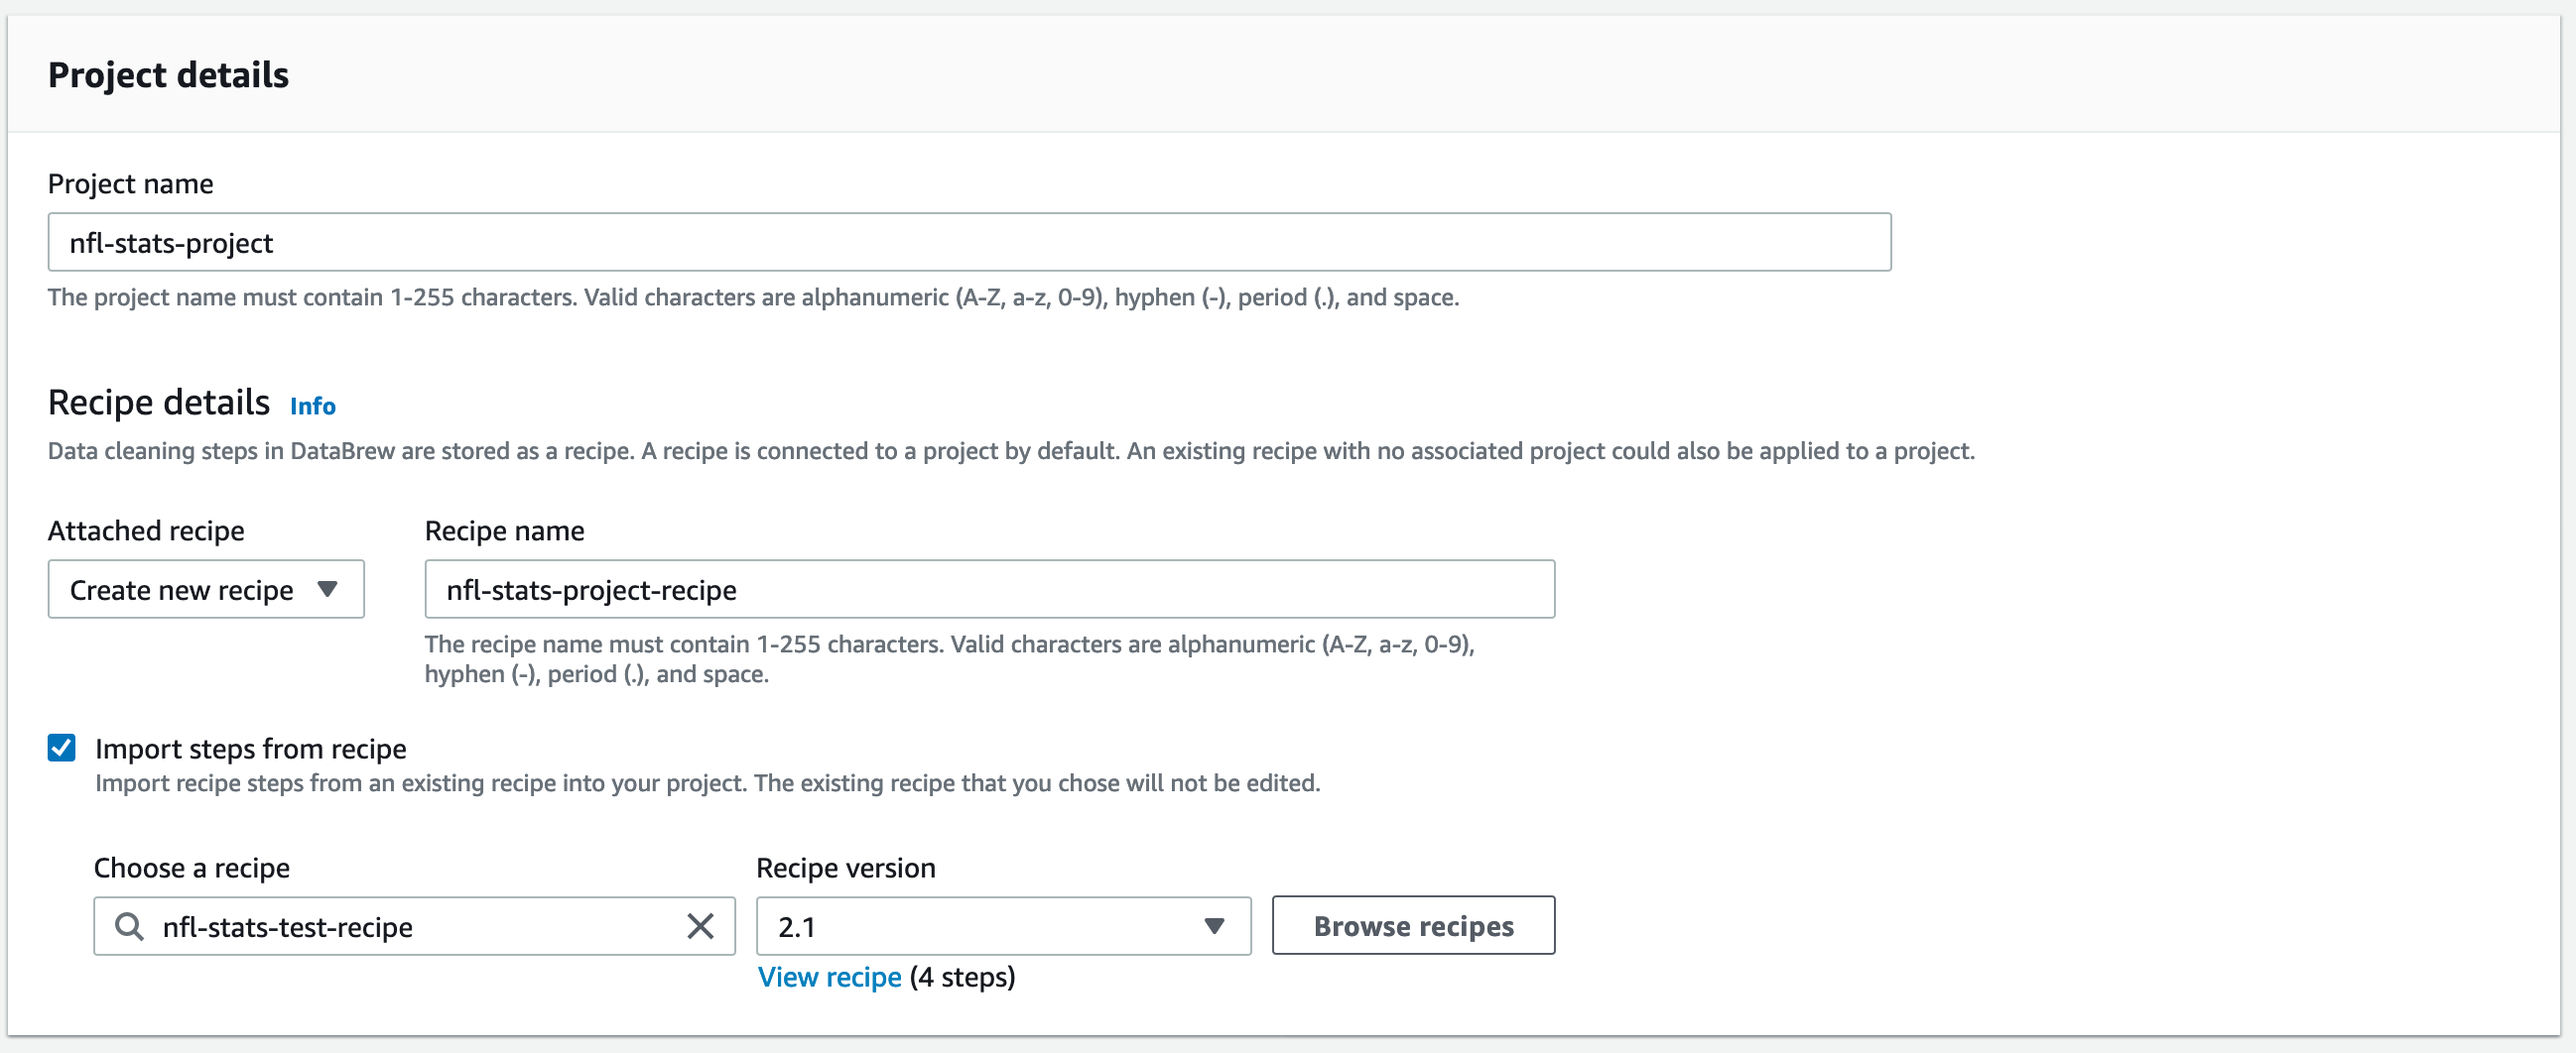
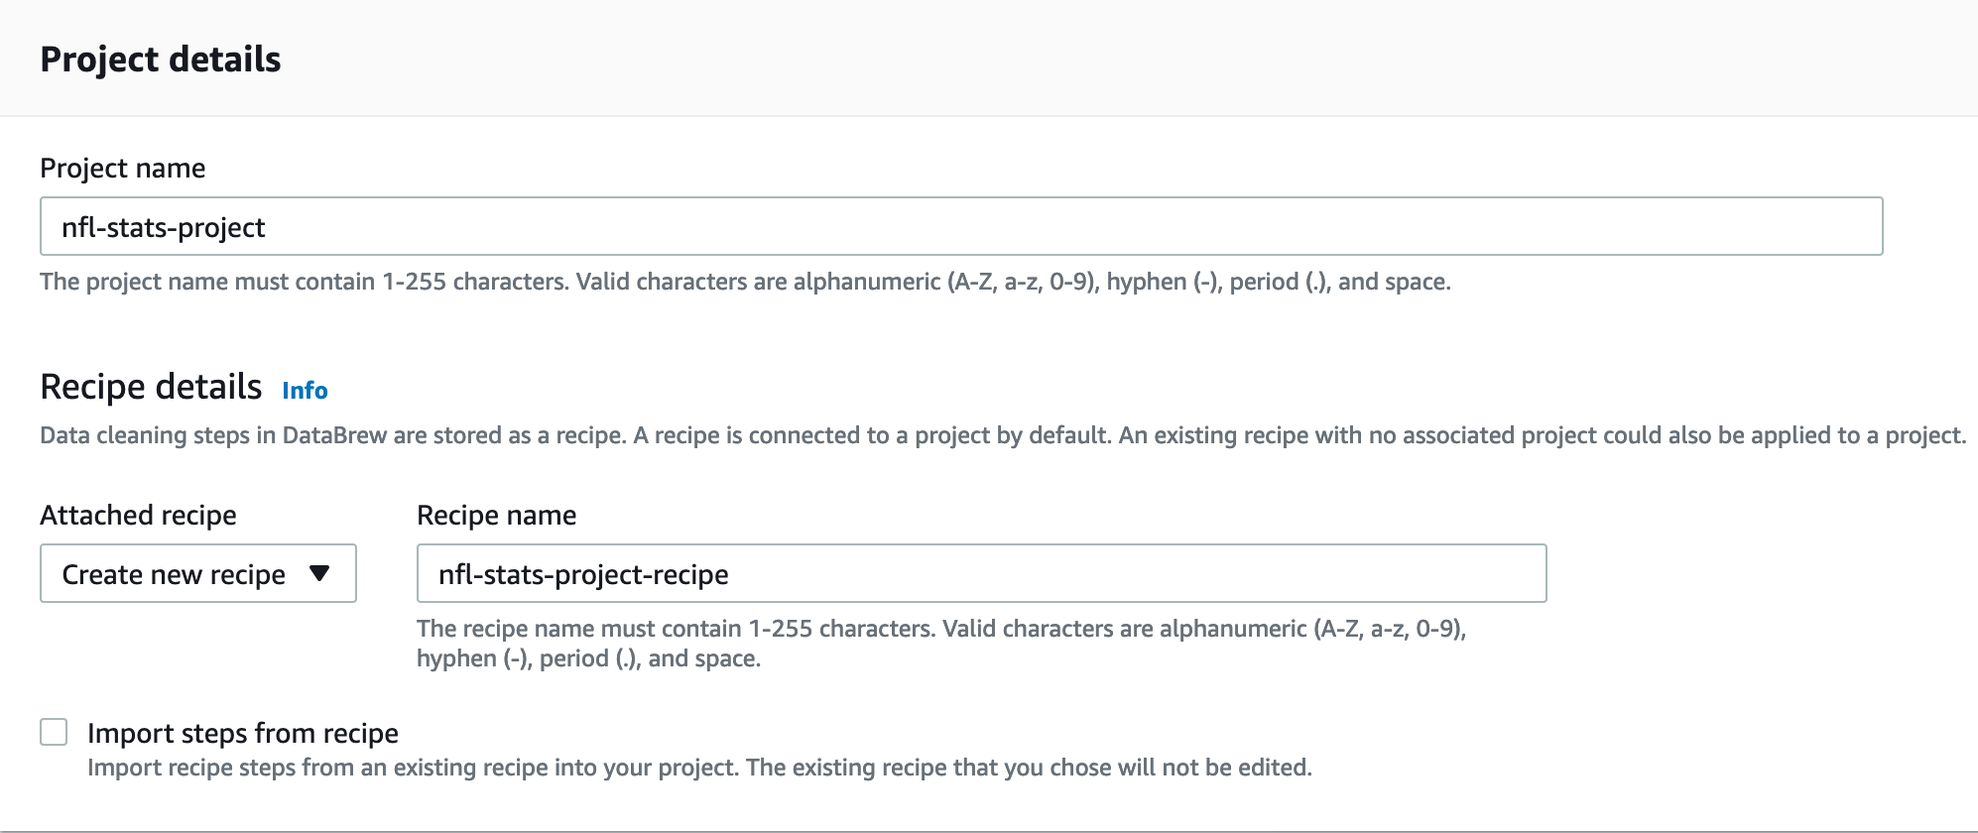
finish get data and start manage data sections

diff --git a/workshop/content/GetData/ExportDataBrew.en.md b/workshop/content/GetData/ExportDataBrew.en.md
@@ -46,29 +46,49 @@ In this section you will create a new project in DataBrew and be applying a reci
 
 ![CreateProject](/images/databrew-create-project.png)
 
-2. Now you will need to provide a few details to the project such as name and IAM Role to use to allow DataBrew access to resources like S3 buckets. In the **Name** field use `nfl-stats-project`, check the **Import steps from recipe** and in the drop-down **Choose recipe** select the `nfl-stats-recipe`, this recipe was generated in the CDK script in [Setup][setup]. For the **Recipe version** drop-down select the latest version available.
-
-**Replace this image**
+2. Now you will need to provide a few details to the project such as name and IAM Role to use to allow DataBrew access to resources like S3 buckets. In the **Name** field use `nfl-stats-project`, Leave the default **Create new recipe** in the recipe dropdown as we will be building a new recipe later in this section.
 
 ![ProjectDetails](/images/databrew-project-details.png)
 
-3. To finish creating the project you need to select the appropriate IAM Role for DataBrew to use. Find the IAM Role with the name that matches the CDK script output `DataBrewRole` and select it. Finally, click the **Create project** button.
+1. To finish creating the project you need to select the appropriate IAM Role for DataBrew to use. Find the IAM Role with the name that matches the CDK script output `DataBrewRole` and select it. Finally, click the **Create project** button.
 
 ![ProjectPermissions](/images/databrew-project-permissions.png)
 
 **Replace this image**
 
-4. You will now land in the main view of the project. Here you have many options like profiling the data set, running transforms, creating jobs, and defining schedules for the jobs. To find out more about the capabilities of DataBrew refer to the [Getting Started][getting-started] guide.  
+1. You will now land in the main view of the project. It will take about a minute to providsio the resources needed to start transforming the data. You have many options here to profile the data set, run transforms, creating jobs, and defining schedules for the jobs. There are over 250+ transformations to use out of the box with no prior coding knowledge needed to get up and running fast. To find out more about the capabilities of DataBrew refer to the [Getting Started][getting-started] guide. For the purposes of this module we will be most interested in creating a recipe to remove columns not needed and change the data type of two columns for use later in this workshop. The recipe is a series of actions performed against the data set in the project and the recipe can be saved and reused as new data sets with the same structure are imported into your data lake.
 
 ![ProjectView](/images/databrew-project-view.png)
 
-1. For this exercise we will be using a pre-created recipe to clean and transform the data. Take a minute and review the **Recipe** section to see how you can add transforms to recipes or even bring in other data sets to be joined visually. A great example blog showing the transformation capabilities in DataBrew can be found [here][transforms].
+1. For this exercise we will be creating a new recipe to clean and transform the data. On the right hand side of the console you will see a **Recipe** section go and click the `Add Step` button to add the steps below to cerate the recipe. A great example blog showing the transformation capabilities in DataBrew can be found [here][transforms].
 
-**Replace this image**
+![ProjectRecipe](/images/databrew-start-recipe.png)
 
-![ProjectRecipe](/images/databrew-project-recipe.png)
+After you add the first step you can use the toolbar in the **Recipe** section to add additional steps. Find the icon with the plus side on the far right to add the additional steps below after the first one.
 
-6. Now that we have viewed the data set in DataBrew and have a recipe to remove columns and change a few data types we are ready to create a job to transform the data set and load into Amazon S3. Click the **Create Job** button in the toolbar on the right side of the page to continue. 
+![ProjectRecipeSteps](/images/databrew-recipe-add-step.png)
+
+Recipe Steps:
+
+1. Find **COLUMN ACTIONS** and select `Change Type`
+    * Set **Source Column** to `player_id` and **Change type to** to `integer`
+2. Find **COLUMN ACTIONS** and select `Change Type`
+    * Set **Source Column** to `team_id` and **Change type to** to `integer`
+3. Find **COLUMN ACTIONS** and select `Delete`
+    * Select all the fields that begin with:
+    * `blocked_`, `fg_`, `fgs_`, `kick_`, `punt_`, `special_teams_` 
+    * The list should look like below when complete:
+    * `blocked_fgs`,`blocked_kicks`,`blocked_pat`,`blocked_punts`,`fg_atts`,`fg_convs`,`fg_convs_details`,`fg_long`,`fg_missed_details`,`fgs_blocked`,`kick_ret_atts`,`kick_ret_long`,`kick_ret_long_is_td`,`kick_ret_tds`,`kick_ret_yds`,`kick_rets_over_40_yds`,`kick_rets_over_40_yds_for_td`,`punt_long`,`punt_ret_atts`,`punt_ret_fair_catches`,`punt_ret_long`,`punt_ret_long_is_td`,`punt_ret_tds`,`punt_rets_over_40_yds`,`punt_rets_over_40_yds_for_td`,`punt_return_yds`,`punt_returns`,`punt_touch_backs`,`punt_yds`,`punts`,`punts_blocked`,`punts_in_20`,`special_teams_fums`,`special_teams_fums_lost`,`special_teams_tkl_asts`,`special_teams_tkls`
+
+Once you have added all your steps you should have a recipe that looks like below:
+
+![ProjectRecipeComplete](/images/databrew-recipe-complete.png)
+
+1. We now want to publish this recipe so we can use it in the job in the next step below to clean the data. Find the recipe **Publish** icon and click it. You should be presented wth the window below. For the **Version description** put in `Version 1` and click the **Publish** button to complete.
+
+![ProjectRecipePublish](/images/databrew-recipe-publish.png)
+
+1. Now that we have viewed the data set in DataBrew and have a recipe to remove columns and change a few data types we are ready to create a job to transform the data set and load into Amazon S3. Click the **Create Job** button in the toolbar on the right side of the page to continue.
 
 ![CreateJob](/images/databrew-create-job.png)
 

diff --git a/workshop/content/ManageData/_index.en.md b/workshop/content/ManageData/_index.en.md
@@ -10,9 +10,33 @@ pre = "<b>2. </b>"
 
 In this module you will be become familiar with [AWS Lake Formation][lake-formation]. You can use Lake Formation to centrally define security, governance, and auditing policies in one place versus doing these tasks per service, and then enforce those policies for your users across their analytics applications.
 
-![architecture](/images/data-exchange-arch.png)
+![architecture](/images/architecture-lakeformation.png)
 
 The preceding diagram shows how AWS Lake Formation is used to provide centrailized governance of data in your datalake making it easy to secure sensitive data all while democratizing the use of it, eliminated data siloes.
+
+## Background
+
+### What is AWS Glue
+
+AWS Glue is a serverless data integration service that makes it easy to discover, prepare, and combine data for analytics, machine learning, and application development. AWS Glue provides all of the capabilities needed for data integration so that you can start analyzing your data and putting it to use in minutes instead of months.
+
+#### Key Concepts
+
+**AWS Glue Data Catalog**
+The AWS Glue Data Catalog contains references to data that is used as sources and targets of your extract, transform, and load (ETL) jobs in AWS Glue. To create your data warehouse or data lake, you must catalog this data. The AWS Glue Data Catalog is an index to the location, schema, and runtime metrics of your data.
+
+**AWS Glue Crawlers**
+You can use a crawler to populate the AWS Glue Data Catalog with tables. This is the primary method used by most AWS Glue users. A crawler can crawl multiple data stores in a single run. Upon completion, the crawler creates or updates one or more tables in your Data Catalog.
+
+**Serverless Spark ETL Containers**
+AWS Glue runs your ETL jobs in an Apache Spark serverless environment. AWS Glue runs these jobs on virtual resources that it provisions and manages in its own service account.
+
+### What is AWS Lake Formation
+AWS Lake Formation makes it easier for you to build, secure, and manage data lakes. Lake Formation helps you do the following, either directly or through other AWS services:
+* Create a registry of data locations and paths where your data lake will reside.
+* Orchestrate data flows that ingest, cleanse, transform, and organize the raw data.
+* Create and manage a Data Catalog containing metadata about data sources and data in the data lake.
+* Define granular data access policies to the metadata and data through a grant/revoke permissions model.
 
 ## Implementation Instructions
 

diff --git a/workshop/content/_index.en.md b/workshop/content/_index.en.md
@@ -23,8 +23,8 @@ architecture and verify your work.
 | Module | Description |
 | ---------------- | -------------------------------------------------------- |
 | [Get Data][get-data] | Use AWS Data Exchange to retrieve 3rd party data set. |
-| [Transform Data][transform-data] | Use AWS Glue and AWS Glue DataBrew to transform the data from multiple csv datasets into a single parquet dataset. **Extra credit to load data from AWS Glue into Snowflake.** |
 | [Manage Data][manage-data] | Use AWS Lake Formation to provide governance and permissioning to datasets in your data lake. |
+| [Transform Data][transform-data] | Use AWS Glue and AWS Glue DataBrew to transform the data from multiple csv datasets into a single parquet dataset. **Extra credit to load data from AWS Glue into Snowflake.** |
 | [Visualize Data][visualize-data] | Use AWS Quicksight to build visualization dashboards. |
 
 :warning: These modules are intended to be executed in order.

diff --git a/workshop/content/VisualizeData/_index.en.md b/workshop/content/VisualizeData/_index.en.md
@@ -4,13 +4,13 @@ spdx-license-identifier = "CC-BY-SA-4.0"
 title = "Visualize Data"
 date = 2019-09-09T17:44:46+01:00
 weight = 40
-chapter = true
+chapter = false
 pre = "<b>4. </b>"
 +++
 
 ## Implementation Instructions
 
-:heavy_exclamation_mark: Ensure you've completed the [Transform Data][transfrom-data] step before beginning
+:heavy_exclamation_mark: Ensure you've completed the [Transform Data][transform-data] step before beginning
 this section.
 
 [transform-data]: /transformdata
